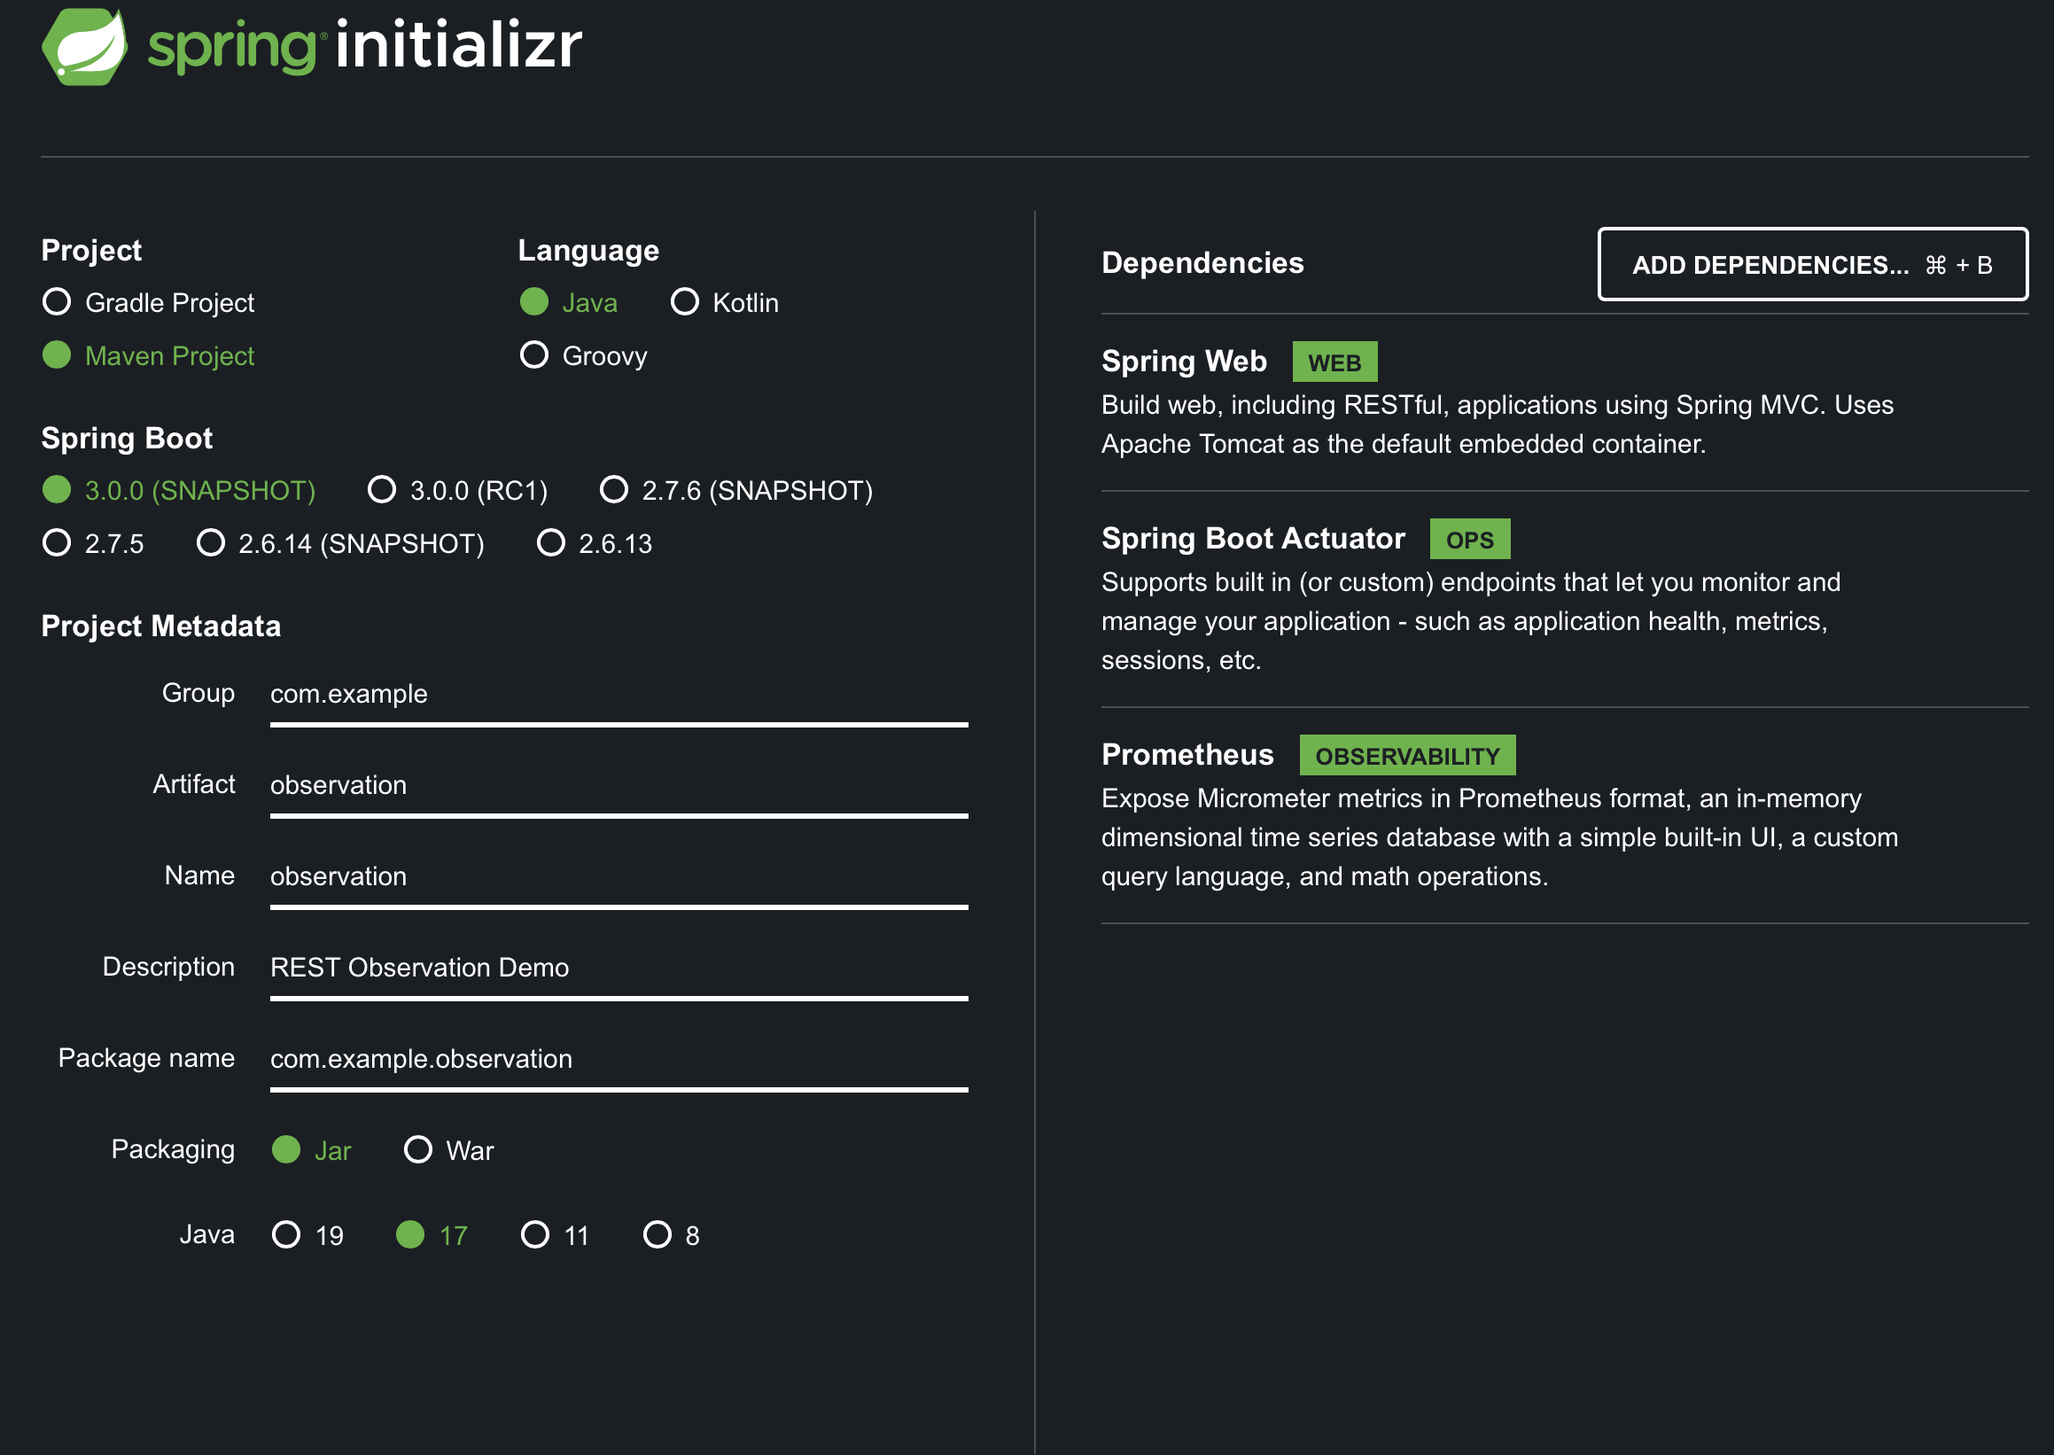
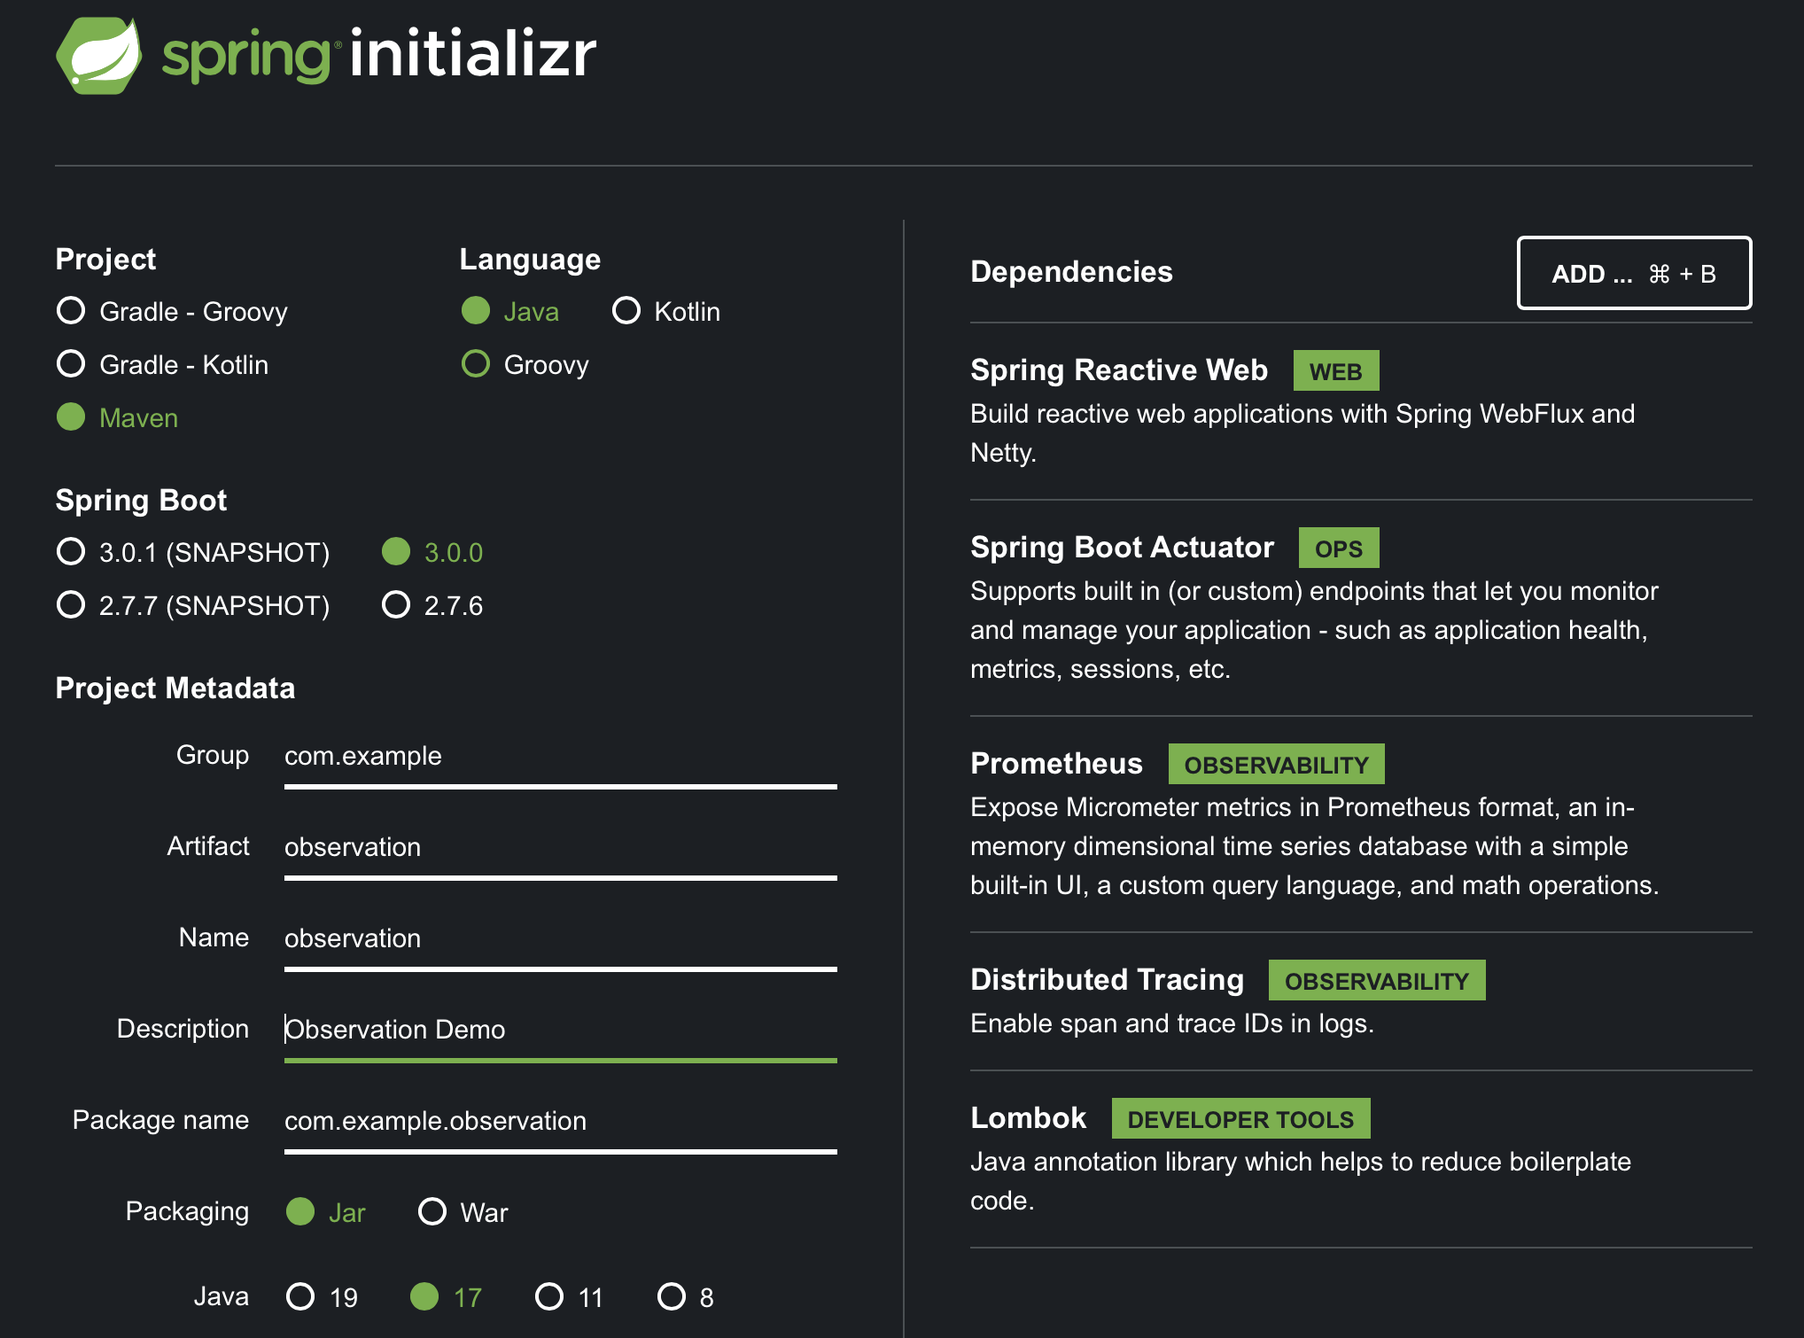
polish

diff --git a/content/guides/observability-reactive-spring-boot-3/index.md b/content/guides/observability-reactive-spring-boot-3/index.md
@@ -25,7 +25,6 @@ aliases:
 - "/guides/microservices/observability-reactive-spring-boot-3"
 level1: Managing and Operating Applications
 level2: Metrics, Tracing, and Monitoring
-draft: true
 ---
 
 Since Spring Framework 6/SpringBoot 3, metrics and tracing get handled by [Micrometer](https://micrometer.io) - a vendor-neutral API for instrumenting code. Micrometer also makes available and sends metrics to aggregators such as [Prometheus](https://prometheus.io), [InfluxDB](https://influxdata.com), [Netflix Atlas](https://netflix.github.io/atlas-docs/overview/) and more. Furthermore, Spring Boot Actuator and Micrometer work together - Micrometer gathers metrics and can make them available on `management` endpoints via the Actuator.
@@ -61,21 +60,16 @@ Type:
  * Maven
 
 
-The full sample listing follows in `SimpleObservationApplication.java`:
+The full sample listing follows in `ObservationApplication.java`:
 
 ```java
 @Slf4j
 @SpringBootApplication
-public class SimpleObservationApplication {
+public class ObservationApplication {
  
  public static void main(String[] args) {
- SpringApplication.run(SimpleObservationApplication.class, args);
+ SpringApplication.run(ObservationApplication.class, args);
  }
-
-	@Bean
-	ObservationTextPublisher otp() {
-		return new ObservationTextPublisher();
-	}
 
 	@Bean
 	ApplicationListener<ApplicationStartedEvent> doOnStart(ObservationRegistry registry) {
@@ -84,8 +78,9 @@ public class SimpleObservationApplication {
 
 	public void generateString(ObservationRegistry registry) {
 		String something = Observation
-				.createNotStarted("server.job", registry)
-				.lowCardinalityKeyValue("jobType", "string")
+				.createNotStarted("server.job", registry)	//1
+				.lowCardinalityKeyValue("jobType", "string")	//2
+				//3
 				.observe(() -> {
 					log.info("Generating a String...");
 					try {
@@ -103,11 +98,9 @@ public class SimpleObservationApplication {
 ```
 
 A few things are happening in this code: 
- 1. Create an instance of `Observation` and bind it to an `ObservationRegistry` as stated in [the documentation](https://micrometer.io/docs/observation).
+ 1. Create an instance of `Observation` and bind it to an `ObservationRegistry` as stated in [the Micrometer documentation](https://micrometer.io/docs/observation).
  2. To better observe our invocation - to be able to filter it later - add _low cardinality_ keys. These are keys whose value will have a bounded number of possibile values. For _high cardinality_ keys - having an unbounded possible values - use the `.highCardinalityKeyValue()` method.
- 3. Rather than manually calling `.start()` and `.stop()`, use the `observe(Runnable)` method to isolate the monitored code in its own `Runnable` closure. You can also use the `observeChecked(CheckedRunnable)` for methods that thro Exceptions.
-
-> **_NOTE:_** 
+ 3. Rather than manually calling `.start()` and `.stop()`, use the `observe(Runnable)` method to isolate the monitored code in its own `Runnable` closure. You can also use the `observeChecked(CheckedRunnable)` for methods that throw Exceptions.
 
 ## How Micrometer observation works
 
@@ -120,13 +113,22 @@ An [ObservationHandler](https://github.com/micrometer-metrics/micrometer/blob/ma
 * `scope started` - Observation opens a scope. The scope must be closed when no longer used. Handlers can create thread-local variables on start that get cleared when the scope is complete. This event happens when the `Observation#openScope()` method gets called.
 * `scope stopped` - Observation stops a scope. This event happens when the `Observation.Scope#close()` method gets called.
 
-An observation state diagram:
+An observation state diagram (per documentation) looks like:
 
-<img src="images/observation-state-dia.png" alt="observation state diagram" width="480">
-
+```
+         Observation          Observation
+         Context              Context
+ Created ───────────► Started ───────────► Stopped
+```
 The state diagram for observation scopes:
 
-<img src="images/observation-scope-state-dia.png" alt="observation scope state diagram" width="480">
+```
+               Observation
+               Context
+ Scope Started ─────────────────► Scope Finished
+```
+
+> **_NOTE:_** Access to the [Observation Docs](https://micrometer.io/docs/observation) is important to gain more details as your needs evolve.
 
 The Spring Boot autoconfiguration creates an `ObservationRegistry` responsible for managing the observations state. Additionally, we get multiple `ObservationHandlers` that handle various instrumentation objectives (e.g., tracing, metrics, logging, etc..). As an example, the [DefaultMeterObservationHandler](https://github.com/micrometer-metrics/micrometer/blob/main/micrometer-core/src/main/java/io/micrometer/core/instrument/observation/DefaultMeterObservationHandler.java#L23) provides micrometer [Timer](https://micrometer.io/docs/concepts#_timers) and [Counter](https://micrometer.io/docs/concepts#_counters) metrics to observations. 
 
@@ -135,16 +137,22 @@ Additionally, non-auto-configured handlers exist, such as the [ObservationTextPu
 Log observation events by declaring a bean of type `ObservationTextPublisher` in the main application configuration:
 
 ```java
-public class ManualObservationApplication {
+public class ObservationApplication {
  ...
  @Bean
  ObservationTextPublisher otp() {
- return new ObservationTextPublisher();
+ 	return new ObservationTextPublisher();
  }
 }
 ```
 
-You will see logs that the `ObservationTextPublisher` emitted when we execute our `SimpleObservationApplication`. I've removed timestamps and only included one descriptive log line for brevity:
+Execute the application:
+
+```shell
+mvn spring-boot:run
+```
+
+You will see logs that the `ObservationTextPublisher` emitted when we execute our `ObservationApplication`. I've removed timestamps and only included one descriptive log line for brevity:
 
 ```log
 INFO 90538 --- [ main] i.m.o.ObservationTextPublisher : START - name='server.job', contextualName='null', error='null', lowCardinalityKeyValues=[jobType='string'], highCardinalityKeyValues=[], map=[]
@@ -154,13 +162,15 @@ name='server.job', contextualName='null', error='null', lowCardinalityKeyValues=
 Timer$Sample='io.micrometer.core.instrument.Timer$Sample@205bed61', class io.micrometer.core.
 instrument.LongTaskTimer$Sample='SampleImpl{duration(seconds)=5.60409E-4, duration(nanos)
 =560409.0, startTimeNanos=}']
-INFO 90538 --- [ main] c.e.o.ManualObservationApplication : Generating a String...
+INFO 90538 --- [ main] c.e.o.ObservationApplication : Generating a String...
 INFO 90538 --- [ main] i.m.o.ObservationTextPublisher : CLOSE - name='server.job',...]
 INFO 90538 --- [ main] i.m.o.ObservationTextPublisher : STOP - name='server.job',...]
-INFO 90538 --- [ main] c.e.o.ManualObservationApplication : Result was: SOMETHING
+INFO 90538 --- [ main] c.e.o.ObservationApplication : Result was: SOMETHING
 ```
 
-Our `ObservationTextPublisher` shows the various stages this Observation went through, along with its metadata. 
+The `ObservationTextPublisher` shows each stage that  this Observation went through, along with some metadata. 
+
+Now that we have reviewed the basics, lets move on to put togehter an example using the reactive Spring WebFlux and Micrometer.
 
 ## The reactive sample setup
 
@@ -197,8 +207,8 @@ Here is a screenshot (for reference) of what the configuration on `start.spring.
 Alternatively, if you have the `curl` client installed, you can generate the same application from the command line:
 
 ```shell
-curl -G https://start.spring.io/starter.zip -o observable.zip -d dependencies=web,actuator,prometheus,distributed-tracing,lombok -d packageName=com.example.observation \
--d description=HTTP%20Observation%20Demo -d type=maven-project -d language=java -d platformVersion=3.0.0-SNAPSHOT \
+curl -G https://start.spring.io/starter.zip -o observable.zip -d dependencies=webflux,actuator,prometheus,distributed-tracing,lombok -d packageName=com.example.observation \
+-d description=Observation%20Demo -d type=maven-project -d language=java -d platformVersion=3.0.0 \
 -d packaging=jar -d jvmVersion=17 -d groupId=com.example -d artifactId=observation -d name=observation 
 ```
 
@@ -226,7 +236,7 @@ Greeting.java:
 record Greeting(String name) {}
 ```
 
-The service we want to use in our HTTP controller:
+The service class uses a latency generator to add some dimension to the latency graph we will see later. 
 
 GreetingService.java:
 ```java
@@ -251,9 +261,9 @@ class GreetingService {
 }
 ```
 
-### Add a Controller endpoint
+### Add a RestController endpoint
 
-Next, add a HTTP Controller that defines an endpoint that returns a greeting for a name derived from the path parameter `{name}`:
+In this Controller, you will define a `GetMapping` that exposes an endpoint to return a greeting. The greeting will contain a name derived from the path parameter `{name}`:
 
 ```kotlin
 @RestController
@@ -280,12 +290,11 @@ Project reactor comes with [built-in support for Micrometer](https://github.com/
 
 Use the reactive `tap` operator to instrument the streams in this sample. The `tap` operator uses a stateful per-subscription [SignalListener](https://projectreactor.io/docs/core/3.5.0-M2/api/reactor/core/observability/SignalListener.html) to manage the state of the `Observation` in progress.
 
-To get a micrometer signal listener, import the [reactor-core-micrometer](https://github.com/reactor/reactor-core/tree/main/reactor-core-micrometer) dependency. Note that this API also relies on [context-propagation](https://micrometer.io/docs/contextPropagation) to propagate observability information along the lifetime of the reactive stream.
+To get a micrometer signal listener, import the [reactor-core-micrometer](https://github.com/reactor/reactor-core/tree/main/reactor-core-micrometer) dependency. Note that this API also puls in the [context-propagation](https://micrometer.io/docs/contextPropagation) library to propagate observability information along the lifetime of the reactive stream.
 
 Here are the additions to `pom.xml` that enable Micrometer Reactive Stream integration:
 
 ```xml
- <!-- Micrometer API -->
 		<dependency>
 			<groupId>io.projectreactor</groupId>
 			<artifactId>reactor-core-micrometer</artifactId>
@@ -300,21 +309,23 @@ Modify the `GreetingService` from earlier to use the `Observation` API:
         return Mono
                 .just(new Greeting(name))
                 .delayElement(Duration.ofMillis(lat))
-                .name("greeting.call")
-                .tag("latency", lat > 250 ? "high" : "low")
-                .tap(Micrometer.observation(registry));
+                .name("greeting.call")		//1
+                .tag("latency", lat > 250 ? "high" : "low")	//2
+                .tap(Micrometer.observation(registry));	//3
 
 ```
 
-This block will track a span underneath the HTTP Controller invocation. The main additions are as follows:
+This block will track a span underneath the Rest Controller invocation. The main additions are as follows:
 
 1. Use `.name` to specify the `Observation` name.
-2. Add low cardinality tags and attributes to the measurements with `.tag`. Latency is either 'high' or 'low'.
+2. Add low cardinality tags and attributes to the measurements with `.tag`. The example latency string is either 'high' or 'low'.
 3. Produce the `Observation`-specific signal listener for the `tap` operator. This operator covers the entire length of the reactive stream.
 
 Read more about Micrometer Metrics in streams in the [Micrometer Observation Docs](https://micrometer.io/docs/observation).
 
-## Introduction of the Monitoring Platform
+## Building an OSS observability stack
+
+There are many pre-existing SAAS observability suites out there, of which VMWare's Wavefront is one good option. In addition, SAAS observability suites are easier to set up and integrate. But, in the interest of exploration, we're going to manually assemble a solution using open-source components: Tempo, Loki, Grafana, and Prometheus.
 
 Next, configure a Grafana dashboard to view logs, traces, and metrics in one location. The following additional projects are required to get started:
 
@@ -373,9 +384,7 @@ management.metrics.distribution.percentiles-histogram.http.server.requests=true
 
 ### Configure Loki log aggregation
 
-Grafana queries Loki to add log correlation with traces and metrics. Then, configure a Logback appender to emit logs directly to Loki. This appender - `com.github.loki4j.logback.Loki4jAppender` - comes from [Loki4J](https://loki4j.github.io/loki-logback-appender/).
-
-Place `logback-spring.xml` into `src/main/resources` of the project and ensure the appender for Loki has the correct URL configured.
+Grafana queries Loki to add log correlation with traces and metrics. To apply this behavior to the application, configure a Logback appender to emit logs directly to Loki. This appender - `com.github.loki4j.logback.Loki4jAppender` - comes from [Loki4J](https://loki4j.github.io/loki-logback-appender/).
 
 To make this work, use the `loki-logback-appender` dependency:
 
@@ -383,12 +392,11 @@ To make this work, use the `loki-logback-appender` dependency:
 		<dependency>
 			<groupId>com.github.loki4j</groupId>
 			<artifactId>loki-logback-appender</artifactId>
-			<version>1.4.0-rc1</version>
+			<version>1.3.2</version>
 		</dependency>
 ```
 
-Put `logback-spring.xml` under `resources`:
-
+Place `logback-spring.xml` into `src/main/resources` of the project and ensure the appender for Loki has the correct URL configured.
 ```xml
 <?xml version="1.0" encoding="UTF-8"?>
 <configuration>
@@ -416,7 +424,7 @@ Put `logback-spring.xml` under `resources`:
 </configuration>
 ```
 
-> **_WARNING:_** For illustrative purposes, this log configuration includes the 'traceID' label which holds lots of values. As the [Loki Doc](https://grafana.com/docs/loki/latest/fundamentals/labels/) states: "High cardinality causes Loki to build a huge index (read: $$$$) and to flush thousands of tiny chunks to the object store (read: slow)."
+> **_WARNING:_** For illustrative purposes, this log configuration includes the 'traceID' label which holds lots of values. The [Loki Doc](https://grafana.com/docs/loki/latest/fundamentals/labels/) states: "High cardinality causes Loki to build a huge index (read: expensive!) and to flush thousands of tiny chunks to the object store (read: slow).". Therefore, this isn't recommended for production uses.
 
 ### Tempo configuration
 
@@ -502,7 +510,7 @@ datasources:
                   url: $${__value.raw}
 ```
 
-This dashboard configuration, located at [infra/docker/grafana/provisioning/dashboards/logs_traces_metrics.json](https://raw.githubusercontent.com/marios-code-path/path-to-springboot-3/main/infra/docker/grafana/provisioning/dashboards/logs_traces_metrics.json) is called `logs_traces_metrics`. This dashboard code is borrowed mainly from [a recent observability blog post](https://spring.io/blog/2022/10/12/observability-with-spring-boot-3).
+This dashboard configuration, located at [infra/docker/grafana/provisioning/dashboards/logs_traces_metrics.json](https://raw.githubusercontent.com/marios-code-path/path-to-springboot-3/main/infra/docker/grafana/provisioning/dashboards/logs_traces_metrics.json) is called `logs_traces_metrics`. This dashboard code is borrowed thanks to this [observability blog post on spring.io](https://spring.io/blog/2022/10/12/observability-with-spring-boot-3).
 
 ```yaml
 {
@@ -713,44 +721,6 @@ This dashboard configuration, located at [infra/docker/grafana/provisioning/dash
                     "legendFormat": "tp95",
                     "range": true,
                     "refId": "C"
-                },
-                {
-                    "datasource": {
-                        "type": "prometheus",
-                        "uid": "PBFA97CFB590B2093"
-                    },
-                    "editorMode": "code",
-                    "exemplar": true,
-                    "expr": "histogram_quantile(1.00, sum(rate(server_job_seconds_bucket[$__rate_interval])) by (le))",
-                    "legendFormat": "max",
-                    "range": true,
-                    "refId": "D"
-                },
-                {
-                    "datasource": {
-                        "type": "prometheus",
-                        "uid": "PBFA97CFB590B2093"
-                    },
-                    "editorMode": "code",
-                    "exemplar": true,
-                    "expr": "histogram_quantile(0.99, sum(rate(server_job_seconds_bucket[$__rate_interval])) by (le))",
-                    "hide": false,
-                    "legendFormat": "tp99",
-                    "range": true,
-                    "refId": "E"
-                },
-                {
-                    "datasource": {
-                        "type": "prometheus",
-                        "uid": "PBFA97CFB590B2093"
-                    },
-                    "editorMode": "code",
-                    "exemplar": true,
-                    "expr": "histogram_quantile(0.95, sum(rate(server_job_seconds_bucket[$__rate_interval])) by (le))",
-                    "hide": false,
-                    "legendFormat": "tp95",
-                    "range": true,
-                    "refId": "F"
                 }
             ],
             "title": "latency for All",
@@ -833,7 +803,7 @@ The service call has it's own distinct span that gets tied to the parent HTTP re
 
 ## Conclusion
 
-You configured a Spring Boot 3 reactive application with Micrometer. Micrometer now supports both metrics and traces. In addition, you integrated Prometheus Exemplars.
+You configured a Spring Boot 3 reactive application with Micrometer. You learned how Micrometer 'observes' method calls and Reactive stream subscriptions in order to derive metric and trace data. An Open Source dashboard stack allows us to demonstrate the effectiveness of this configuration. Micrometer now supports both metrics and traces. In addition, you integrated Prometheus Exemplars.
 
 ## Links and Readings
 
